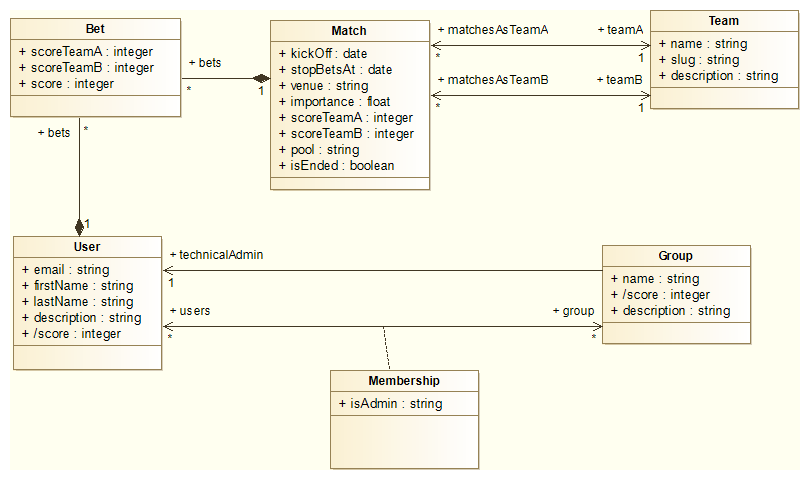
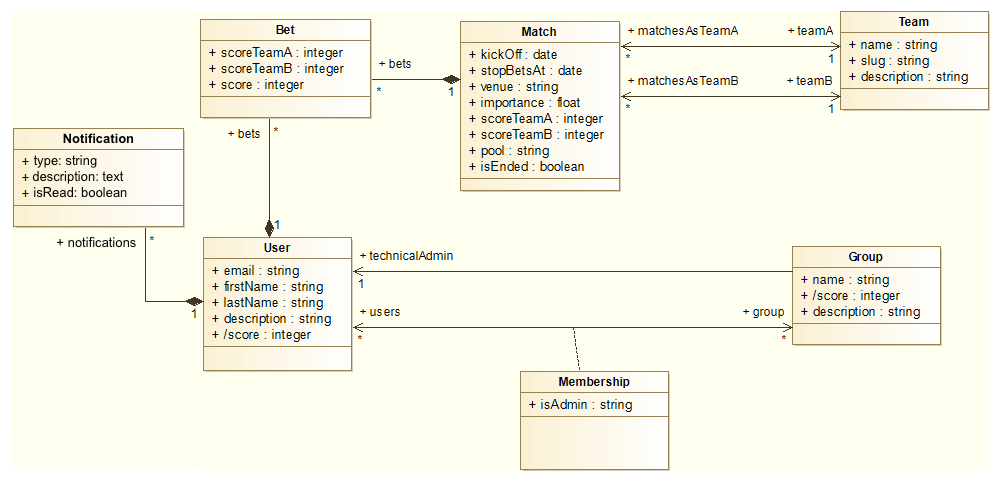
docs: add the notifications class

Changed region(s): [[0.0, 0.0, 1.0, 0.7812], [0.4012, 0.75, 0.679, 1.0], [0.1543, 0.4062, 0.1852, 0.4375]]

diff --git a/DOCS.md b/DOCS.md
@@ -135,12 +135,27 @@ Get a list of users.
 | description | Everything the User want you to know | string  | "King of the North" |         | No       | No     |
 | score       | The cumulative score of the User     | integer | 127                 | 0       | No       | No     |
 
+### Notification
+
+ - *GET /notifications*
+
+**Description**
+
+Get a list of notifications.
+
+**Attributes**
+
+| Name        | Description                                 | Type    | Example              | Default | Required | Unique |
+|-------------|---------------------------------------------|---------|----------------------|---------|----------|--------|
+| type        | The type of the notification                | string  | "ranking"            |         | Yes      | No     |
+| description | The notification's details                  | text    | "You won 217 points" |         | Yes      | No     |
+| isRead      | Has the notification been read by the user? | boolean | true                 | false   | No       | No     |
+
 **Associated resources**
 
-| Name        | Description                               | Type | Model      | Required |
-|-------------|-------------------------------------------|------|------------|----------|
-| bets        | The collection of the User Bets           | List | Bet        | No       |
-| memberships | The Groups in which the User participates | List | Membership | No       |
+| Name | Description        | Type     | Model | Required |
+|------|--------------------|----------|-------|----------|
+| user | The user concerned | Instance | User  | Yes      |
 
 ### Membership
 
